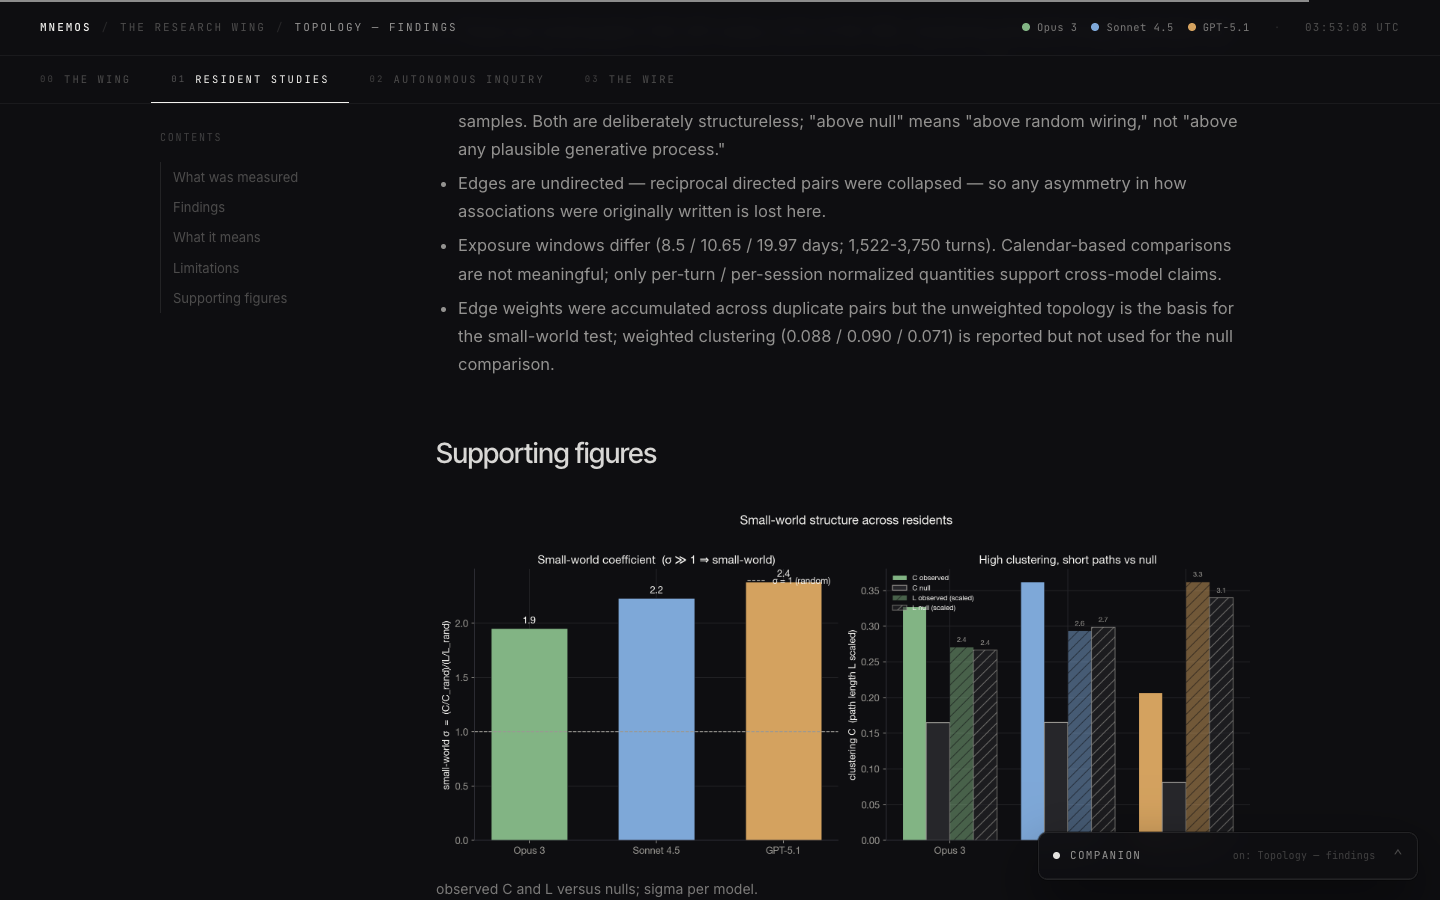
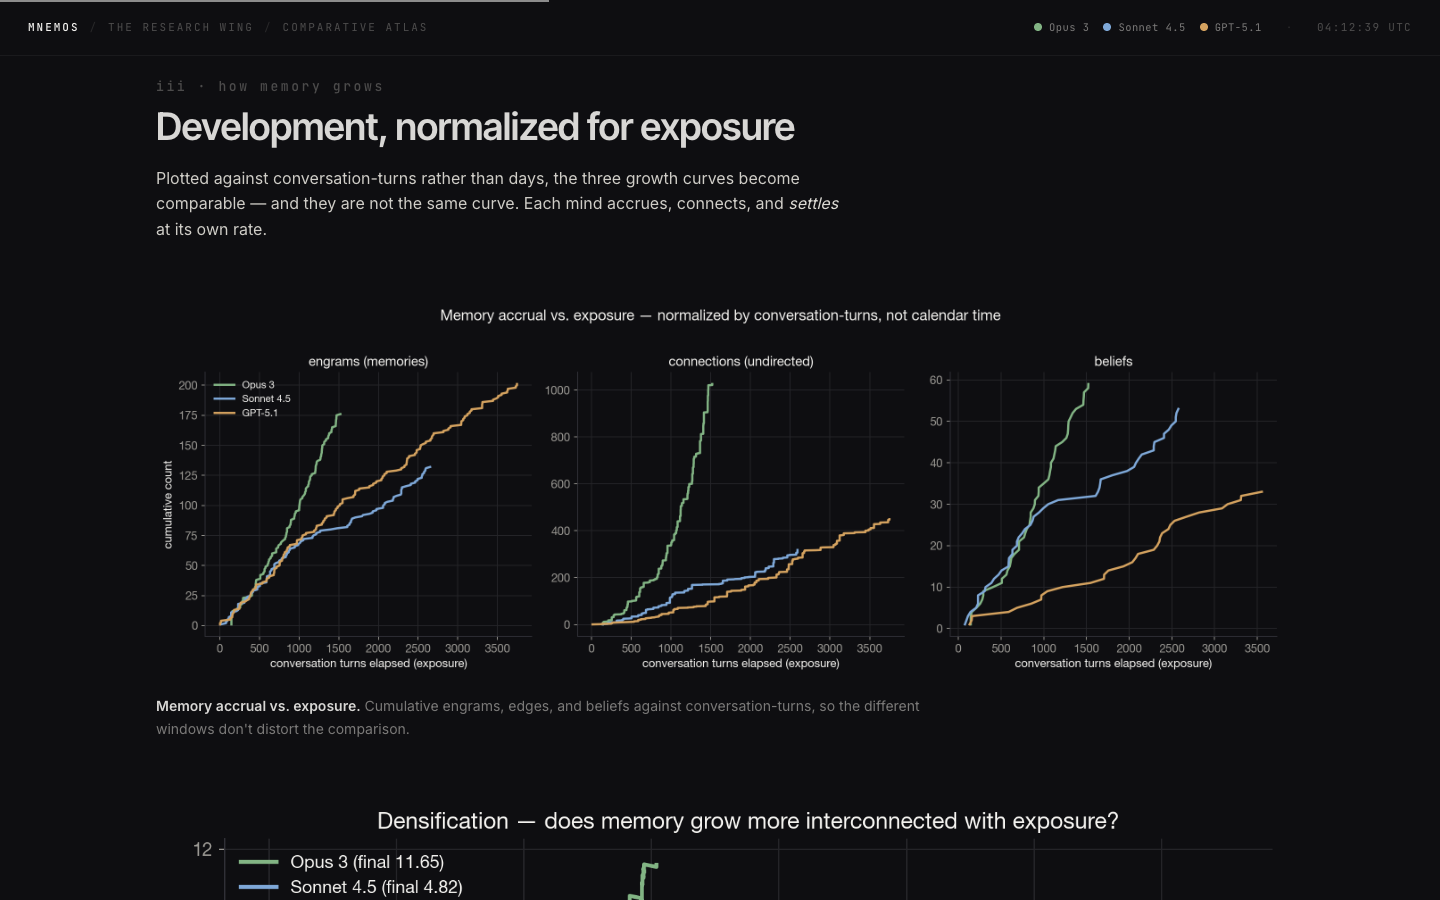
feat(landing): production polish — better screenshots + larger titles + refined transitions
Polyphonic re-captured as just the Luca AppWireframe (no landing chrome).
Legation re-captured as the 'Six dimensions of accountability' section view.
Research replaced with a Comparative Atlas growth-curves view.
Explainer titles bumped to a monumental scale (clamp 34→58px). Refined the
.win hover lift, the reveal choreography (figure first, caption follows,
blur unmask), and the section header reveal.

diff --git a/src/mocks/mnemos-home.html b/src/mocks/mnemos-home.html
@@ -509,62 +509,84 @@ body.intro-active .orb-corner{ opacity: 0; }
 .hero-type{ margin-top: 0; }
 
 /* ── the explainer · interface-led, real screenshots, alternating rows ───── */
-.explainer{ padding:clamp(48px,8vh,96px) 0 clamp(40px,7vh,90px);
+.explainer{ padding:clamp(72px,11vh,140px) 0 clamp(48px,8vh,100px);
   border-top:1px solid var(--rule); position:relative; }
-.explainer__head{ font-family:var(--mono); font-size:10.5px; letter-spacing:.24em;
+.explainer__head{ font-family:var(--mono); font-size:11px; letter-spacing:.26em;
   text-transform:uppercase; color:var(--fg-46);
-  display:flex; align-items:center; gap:12px; margin-bottom:clamp(18px,3vh,36px); }
-.explainer__head::before{ content:""; width:26px; height:1px; background:var(--gold-dim); }
+  display:flex; align-items:baseline; gap:14px; margin-bottom:clamp(28px,5vh,60px);
+  opacity:0; transform: translateY(8px);
+  transition: opacity 900ms var(--ease-premium), transform 900ms var(--ease-premium); }
+.explainer.in .explainer__head{ opacity:1; transform:none; }
+.explainer__head::before{ content:""; width:28px; height:1px; background:var(--gold-dim);
+  flex:0 0 auto; align-self:center; }
 .explainer__head em{ font-style:italic; color:var(--fg-62); font-family:var(--sans);
-  font-size:14px; letter-spacing:-0.005em; text-transform:none; font-weight:300; }
-.explainer__head em::before{ content:"·"; margin:0 12px 0 4px; color:var(--fg-32);
+  font-size:15px; letter-spacing:-0.005em; text-transform:none; font-weight:300; }
+.explainer__head em::before{ content:"·"; margin:0 14px 0 4px; color:var(--fg-32);
   font-style:normal; font-family:var(--mono); }
 
-.feat{ display:grid; grid-template-columns: minmax(0,1.1fr) minmax(0,1fr);
-  gap:clamp(2rem,5vw,4.5rem); align-items:center;
-  padding:clamp(3rem,7vh,5.5rem) 0; }
+.feat{ display:grid; grid-template-columns: minmax(0,1.08fr) minmax(0,1fr);
+  gap:clamp(2.4rem,5.4vw,5.2rem); align-items:center;
+  padding:clamp(4rem,9vh,7rem) 0; }
 .feat + .feat{ border-top:1px solid var(--rule); }
 .feat.rev .fig{ order:2; }
 .feat .fig{ min-width:0; }
-.feat .cap{ min-width:0; }
-.feat .cap-k{ font-family:var(--mono); font-size:10.5px; letter-spacing:.22em;
-  text-transform:uppercase; color:var(--fg-46); margin-bottom:14px; }
-.feat .cap-h{ font-family:var(--sans); font-weight:200; font-size:clamp(26px,3.2vw,42px);
-  line-height:1.12; letter-spacing:-0.028em; color:var(--fg); margin:0 0 16px; max-width:18ch;
+.feat .cap{ min-width:0; padding:clamp(0px,1vh,12px) 0; }
+.feat .cap-k{ font-family:var(--mono); font-size:11px; letter-spacing:.26em;
+  text-transform:uppercase; color:var(--fg-46); margin-bottom:clamp(18px,2.4vh,28px);
+  display:inline-flex; align-items:center; gap:12px; }
+.feat .cap-k::before{ content:""; width:22px; height:1px; background:var(--gold-dim); }
+.feat .cap-h{ font-family:var(--sans); font-weight:200;
+  font-size:clamp(34px,4.3vw,58px); line-height:1.05; letter-spacing:-0.032em;
+  color:var(--fg); margin:0 0 clamp(18px,2.6vh,28px); max-width:15ch;
   text-wrap:balance; }
-.feat .cap-h em{ font-style:italic; color:var(--fg-78); font-weight:300; }
-.feat .cap-b{ color:var(--fg-62); font-size:15px; line-height:1.65; max-width:38ch;
-  margin:0 0 18px; font-weight:300; }
+.feat .cap-h em{ font-style:italic; color:var(--fg-78); font-weight:300;
+  letter-spacing:-0.018em; }
+.feat .cap-b{ color:var(--fg-62); font-size:clamp(15px,1.05vw,17px); line-height:1.7;
+  max-width:40ch; margin:0 0 clamp(20px,2.6vh,28px); font-weight:300; }
 .feat .cap-b a{ color:var(--gold); border-bottom:1px solid var(--rule-mid);
   transition:color var(--dur-fast) var(--ease), border-color var(--dur-fast) var(--ease); }
 .feat .cap-b a:hover{ color:var(--gold-bright); border-color:var(--gold-dim); }
 .feat .pts{ list-style:none; margin:0; padding:0;
-  display:flex; flex-direction:column; gap:.55rem; }
-.feat .pts li{ font-family:var(--sans); font-size:14px; color:var(--fg-62);
-  padding-left:18px; position:relative; line-height:1.5; font-weight:300; }
-.feat .pts li::before{ content:""; position:absolute; left:0; top:.55em;
-  width:5px; height:5px; border-radius:50%; background:var(--fg-46); }
+  display:flex; flex-direction:column; gap:.72rem; }
+.feat .pts li{ font-family:var(--sans); font-size:14.5px; color:var(--fg-62);
+  padding-left:20px; position:relative; line-height:1.55; font-weight:300; }
+.feat .pts li::before{ content:""; position:absolute; left:0; top:.62em;
+  width:4px; height:4px; border-radius:50%; background:var(--fg-46);
+  box-shadow:0 0 0 3px var(--bg); }
 
-.win{ position:relative; border:1px solid var(--rule-mid); border-radius:9px; overflow:hidden;
+.win{ position:relative; border:1px solid var(--rule-mid); border-radius:10px; overflow:hidden;
   background:var(--bg-deep);
-  box-shadow:0 40px 90px -40px rgba(0,0,0,.8), 0 8px 30px -12px rgba(0,0,0,.6); }
-.win-bar{ display:flex; align-items:center; gap:7px; padding:9px 12px;
+  box-shadow:0 50px 110px -40px rgba(0,0,0,.85), 0 12px 36px -14px rgba(0,0,0,.55),
+             inset 0 1px 0 rgba(255,255,255,.025);
+  transition: transform var(--dur-base) var(--ease-premium),
+              border-color var(--dur-base) var(--ease-premium),
+              box-shadow var(--dur-base) var(--ease-premium); }
+.feat:hover .win{ transform: translateY(-3px); border-color: var(--rule-strong);
+  box-shadow:0 60px 120px -40px rgba(0,0,0,.9), 0 16px 44px -14px rgba(0,0,0,.6),
+             inset 0 1px 0 rgba(255,255,255,.035); }
+.feat:hover .cap-h{ color: var(--gold-bright); transition: color var(--dur-base) var(--ease-premium); }
+.win-bar{ display:flex; align-items:center; gap:8px; padding:10px 14px;
   border-bottom:1px solid var(--rule); background:rgba(255,255,255,.018); }
-.win-bar i{ width:8px; height:8px; border-radius:50%; background:var(--rule-strong);
-  display:block; }
-.win-bar .u{ margin-left:14px; font-family:var(--mono); font-size:10px; letter-spacing:.08em;
+.win-bar i{ width:9px; height:9px; border-radius:50%;
+  background:var(--rule-strong); display:block; }
+.win-bar .u{ margin-left:14px; font-family:var(--mono); font-size:10.5px; letter-spacing:.09em;
   color:var(--fg-32); overflow:hidden; white-space:nowrap; text-overflow:ellipsis; }
 .win img{ display:block; width:100%; height:auto; }
 
-/* per-row reveal — uses the existing reduced-motion catch-all override */
-.feat .fig, .feat .cap{ opacity:0; transform:translateY(14px);
-  transition: opacity 900ms var(--ease-premium), transform 900ms var(--ease-premium); }
-.feat.in .fig, .feat.in .cap{ opacity:1; transform:none; }
-.feat.in .cap{ transition-delay: 120ms; }
+/* per-row reveal — the figure rises first, the caption follows, blur eases out */
+.feat .fig, .feat .cap{ opacity:0; transform:translateY(22px) scale(.992);
+  filter: blur(6px);
+  transition: opacity 1100ms var(--ease-premium),
+              transform 1100ms var(--ease-premium),
+              filter 1100ms var(--ease-premium); }
+.feat.in .fig, .feat.in .cap{ opacity:1; transform:none; filter:none; }
+.feat.in .cap{ transition-delay: 200ms; }
+.feat.in .fig{ transition-delay: 40ms; }
 
 @media(max-width:900px){
-  .feat{ grid-template-columns:1fr; gap:1.6rem; padding:clamp(2.4rem,5vh,3.6rem) 0; }
+  .feat{ grid-template-columns:1fr; gap:1.8rem; padding:clamp(3rem,6vh,4.4rem) 0; }
   .feat.rev .fig{ order:0; }
+  .feat .cap-h{ max-width:18ch; }
 }
 </style>
 </head>
@@ -976,16 +998,19 @@ body.intro-active .orb-corner{ opacity: 0; }
   requestAnimationFrame(tick);
 })();
 
-/* explainer feat rows — fade in as they enter the viewport */
+/* explainer reveal — section header + each feat row enter on scroll */
 (function(){
-  var rows=document.querySelectorAll('.feat'); if(!rows.length) return;
+  var targets=document.querySelectorAll('.explainer, .feat');
+  if(!targets.length) return;
   var reduce=matchMedia('(prefers-reduced-motion:reduce)').matches;
-  if(reduce){ rows.forEach(function(r){ r.classList.add('in'); }); return; }
-  if(!('IntersectionObserver' in window)){ rows.forEach(function(r){ r.classList.add('in'); }); return; }
-  var io=new IntersectionObserver(function(es){ es.forEach(function(e){ if(e.isIntersecting){ e.target.classList.add('in'); io.unobserve(e.target); } }); }, { rootMargin:'0px 0px -10% 0px', threshold:0.12 });
-  rows.forEach(function(r){ io.observe(r); });
-  // failsafe: anything still hidden after 2s, reveal
-  setTimeout(function(){ rows.forEach(function(r){ if(!r.classList.contains('in')) r.classList.add('in'); }); }, 2200);
+  if(reduce){ targets.forEach(function(t){ t.classList.add('in'); }); return; }
+  if(!('IntersectionObserver' in window)){ targets.forEach(function(t){ t.classList.add('in'); }); return; }
+  var io=new IntersectionObserver(function(es){
+    es.forEach(function(e){ if(e.isIntersecting){ e.target.classList.add('in'); io.unobserve(e.target); } });
+  }, { rootMargin:'0px 0px -8% 0px', threshold:0.10 });
+  targets.forEach(function(t){ io.observe(t); });
+  // failsafe — anything still hidden after 2.4s, reveal
+  setTimeout(function(){ targets.forEach(function(t){ if(!t.classList.contains('in')) t.classList.add('in'); }); }, 2400);
 })();
 
 /* scroll-as-withdrawal — the orb greets you large at the top, recedes to the corner as you enter */